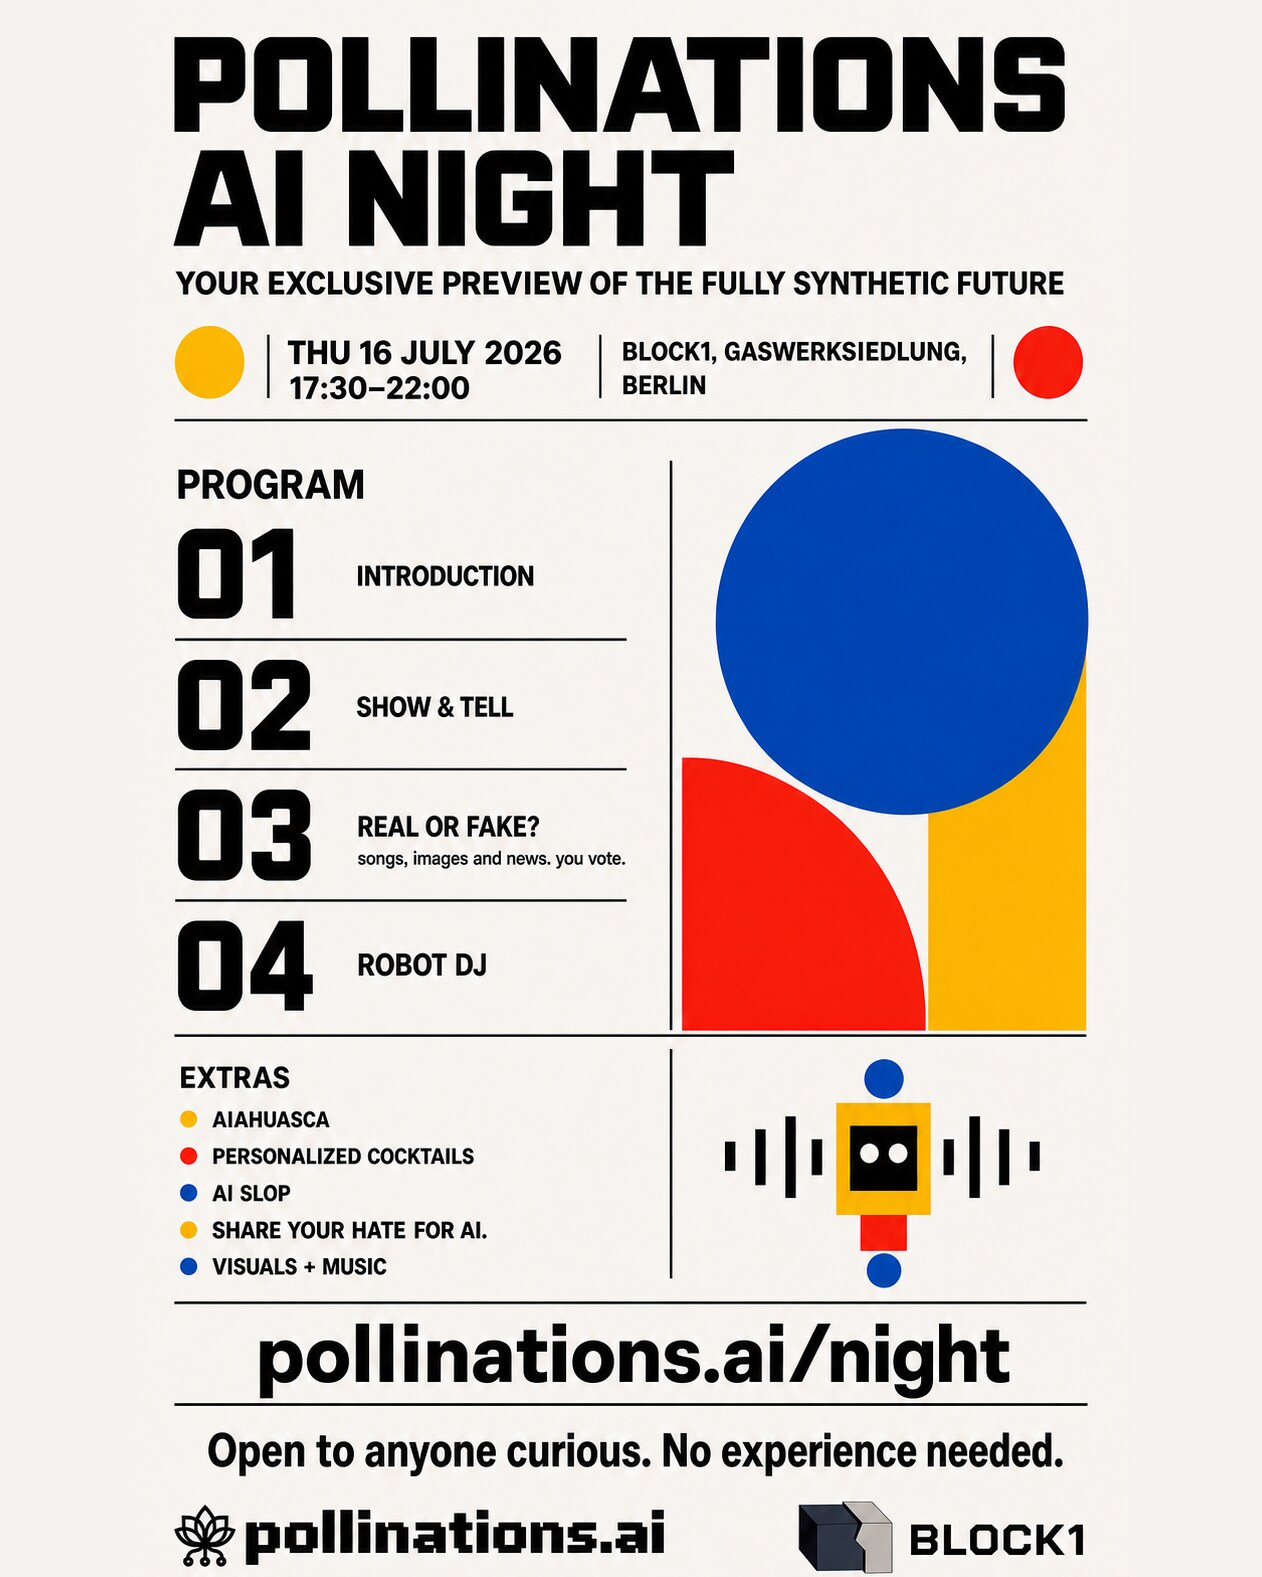
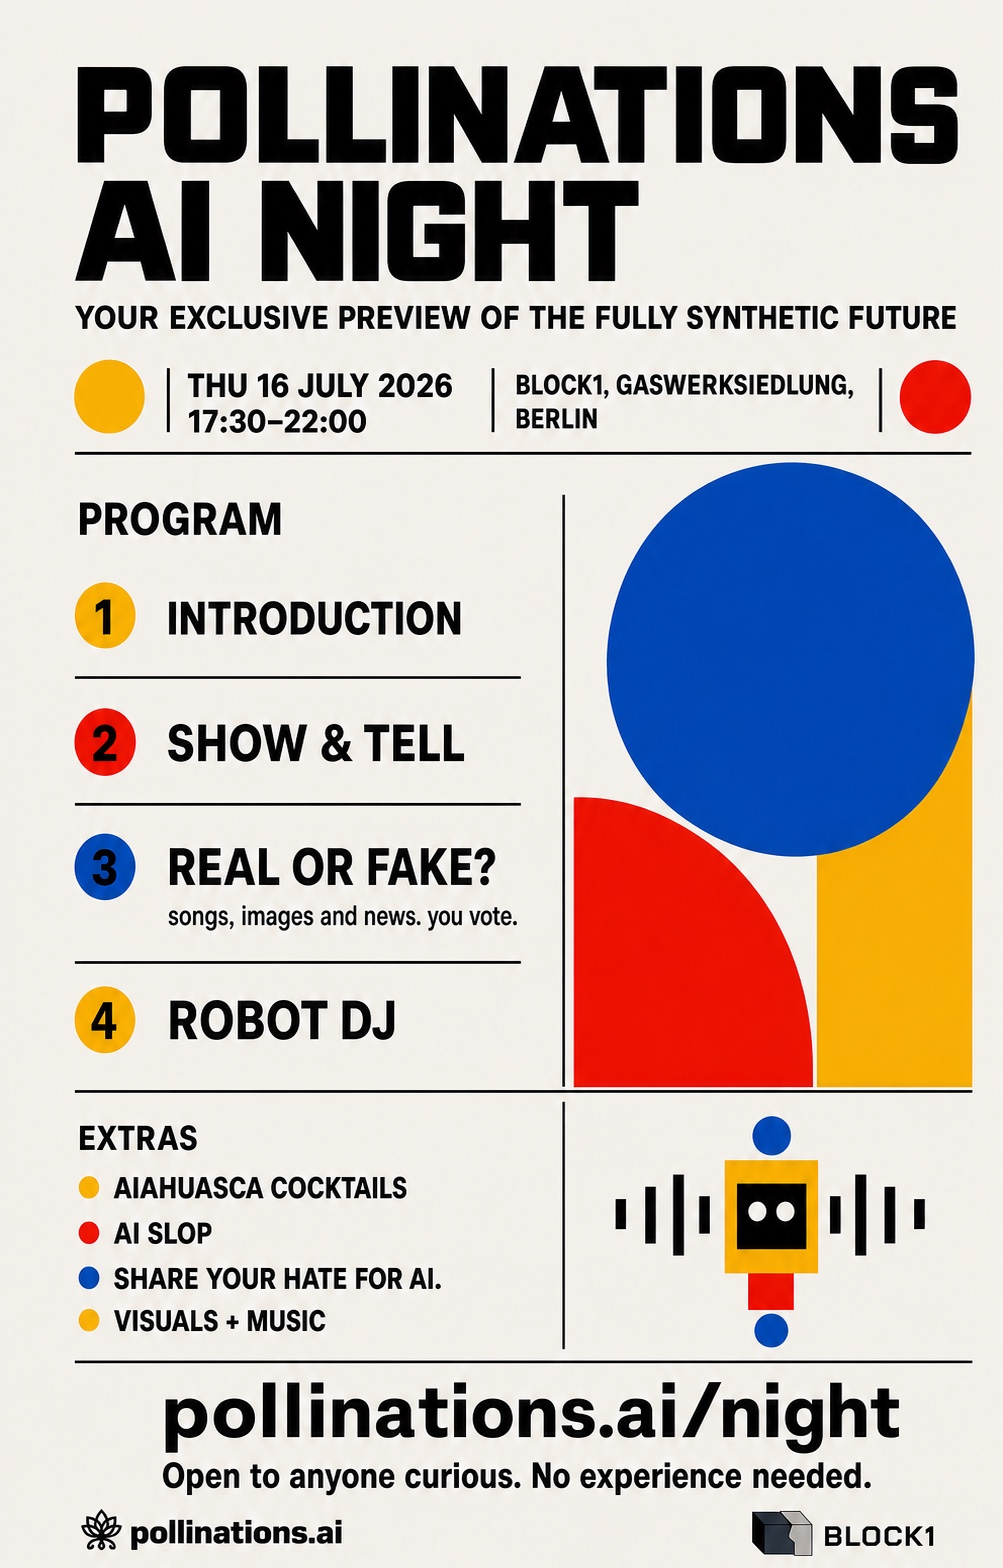
night: align copy and flyer with current event

diff --git a/pollinations.ai/public/night.html b/pollinations.ai/public/night.html
@@ -4,7 +4,7 @@
 <meta charset="utf-8">
 <meta name="viewport" content="width=device-width, initial-scale=1">
 <title>Pollinations AI Night | 16 July 2026, Block1 Berlin</title>
-<meta name="description" content="An evening for people who don't know AI yet. Show &amp; tell, real or fake? game, robot DJ. Thu 16 July 2026, 17:30-22:00, Block1, Gaswerksiedlung, Berlin. No experience needed.">
+<meta name="description" content="A free evening for anyone curious about AI. Show &amp; tell, real or fake? songs, images and news, and a robot DJ. Thu 16 July 2026, 17:30-22:00, Block1, Gaswerksiedlung, Berlin. No experience needed.">
 <link rel="canonical" href="https://pollinations.ai/night">
 <meta property="og:title" content="Pollinations AI Night">
 <meta property="og:description" content="Your exclusive preview of the fully synthetic future. Thu 16 July 2026, 17:30-22:00, Block1, Gaswerksiedlung, Berlin.">
@@ -17,7 +17,7 @@
   "@context": "https://schema.org",
   "@type": "Event",
   "name": "Pollinations AI Night",
-  "description": "An informal evening of people showing how they use AI. Show & tell, real or fake? game, robot DJ. For people who don't know AI yet. No experience needed.",
+  "description": "A free evening of people showing how they use AI. Show & tell, real or fake? songs, images and news, and a robot DJ. Open to anyone curious, no experience needed.",
   "startDate": "2026-07-16T17:30:00+02:00",
   "endDate": "2026-07-16T22:00:00+02:00",
   "eventAttendanceMode": "https://schema.org/OfflineEventAttendanceMode",
@@ -151,11 +151,10 @@
 
   <h2>Extras</h2>
   <ul class="extras">
-    <li><span class="dot yellow"></span>AIahuasca</li>
-    <li><span class="dot red"></span>Personalized cocktails</li>
-    <li><span class="dot blue"></span>AI slop</li>
-    <li><span class="dot yellow"></span>Share your hate for AI.</li>
-    <li><span class="dot blue"></span>Visuals + music</li>
+    <li><span class="dot yellow"></span>AIahuasca cocktails</li>
+    <li><span class="dot red"></span>AI slop</li>
+    <li><span class="dot blue"></span>Share your dislike for AI.</li>
+    <li><span class="dot yellow"></span>Visuals + music</li>
   </ul>
 
   <div class="shapes" aria-hidden="true">
@@ -164,7 +163,7 @@
 
   <section class="rsvp" id="rsvp">
     <h2 style="margin-top:0">RSVP</h2>
-    <p>Coming? Fill this in so we know how many drinks to get. Want to do a ten-minute show &amp; tell, or share your hate for AI? Say so, the projector is ready.</p>
+    <p>Coming? Fill this in so we know how many drinks to get. Want to do a ten-minute show &amp; tell, or share your dislike for AI? Say so, the projector is ready.</p>
     <div class="ok" id="rsvp-ok" hidden>Thanks, you're in. See you on the 16th.</div>
     <form class="form" id="rsvp-form" method="POST" action="https://formsubmit.co/thomash@pollinations.ai">
       <input type="hidden" name="_subject" value="Pollinations Night RSVP">
@@ -185,7 +184,7 @@
         <legend>And</legend>
         <label class="radio"><input type="radio" name="participation" value="just coming" checked>just coming</label>
         <label class="radio"><input type="radio" name="participation" value="10-minute show and tell">a 10-minute show &amp; tell</label>
-        <label class="radio"><input type="radio" name="participation" value="share my hate for AI">sharing my hate for AI</label>
+        <label class="radio"><input type="radio" name="participation" value="share my dislike for AI">sharing my dislike for AI</label>
       </fieldset>
       <label>What would you show or tell? (optional)<textarea name="pitch" rows="3" maxlength="1000"></textarea></label>
       <button class="btn" type="submit">RSVP</button>

diff --git a/pollinations.ai/src/worker.ts b/pollinations.ai/src/worker.ts
@@ -58,7 +58,7 @@ const ROUTE_META: Record<string, { title: string; description: string }> = {
     "/night": {
         title: "Pollinations AI Night | 16 July 2026, Block1 Berlin",
         description:
-            "An evening for people who don't know AI yet. Show & tell, real or fake? game, robot DJ. Thu 16 July 2026, 17:30-22:00, Block1, Gaswerksiedlung, Berlin.",
+            "A free evening for anyone curious about AI. Show & tell, real or fake? songs, images and news, and a robot DJ. Thu 16 July 2026, 17:30-22:00, Block1, Gaswerksiedlung, Berlin.",
     },
 };
 
